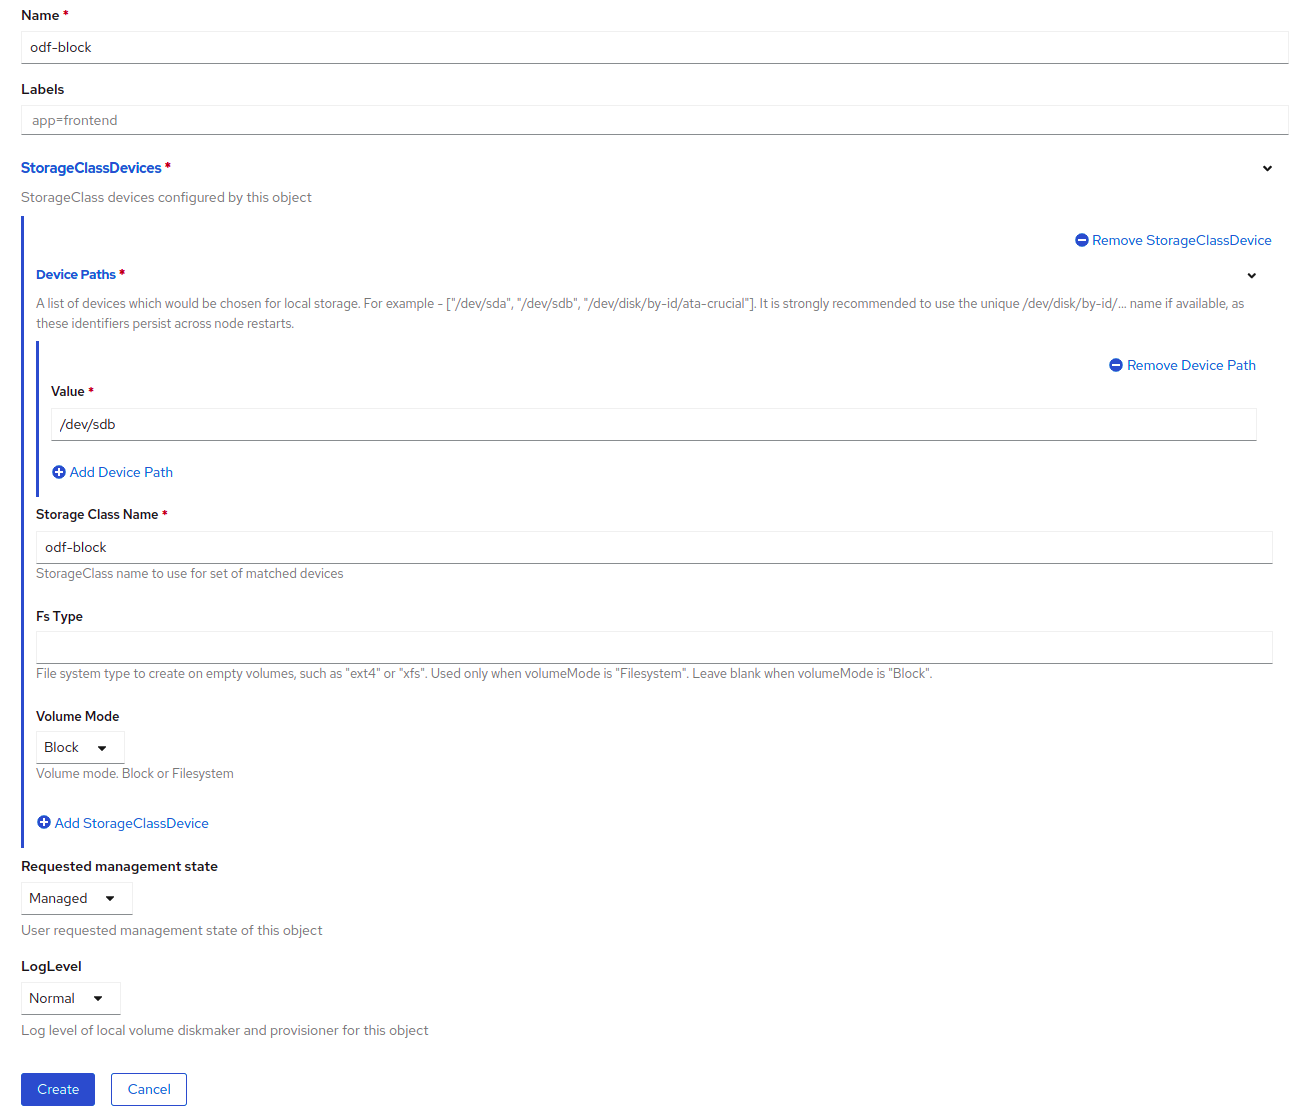
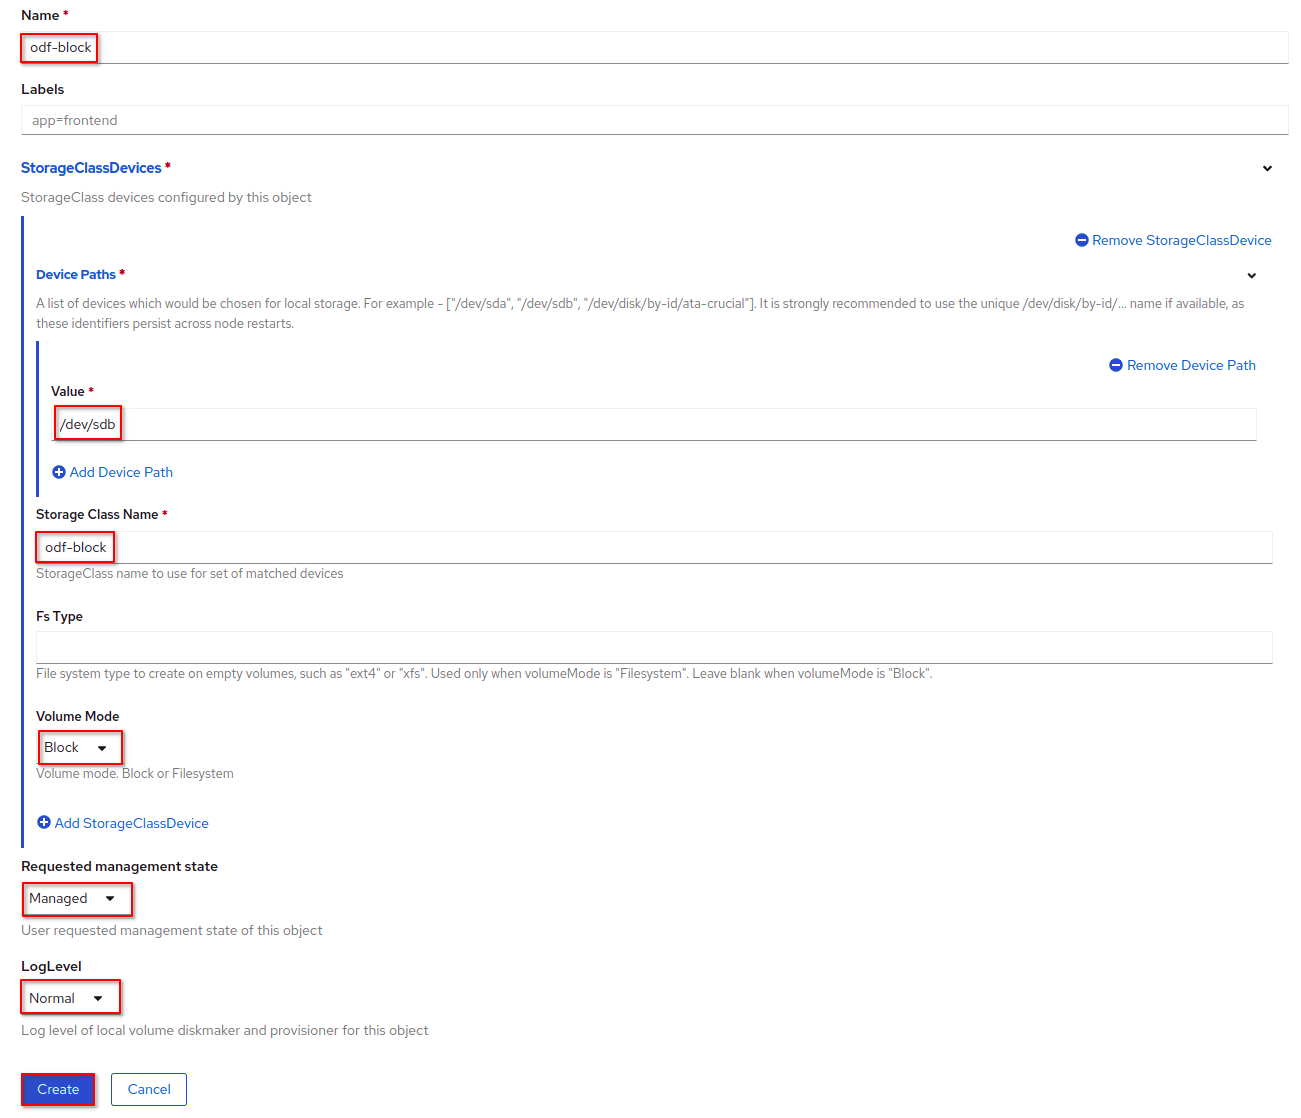
lso and odf quick start clean up

diff --git a/source/_static/css/custom.css b/source/_static/css/custom.css
@@ -1,11 +1,32 @@
-#h1 {
-#  background-color: green;
+img {
+  margin-bottom: 24px;
+}
+
+#table {
+#  margin-bottom: 24px;
 #}
 
-#div {
-#  background-color: white;
-#}
+.section ol.loweralpha > li { 
+  list-style: lower-alpha;
+  padding-bottom: 5px;
+}
 
-#body {
-#  background-color: yellow;
-#}
+.section ol.upperalpha > li { 
+  list-style: upper-alpha;
+  padding-bottom: 5px;
+}
+
+.section ol.arabic > li {
+  list-style: decimal;
+  padding-bottom: 5px;
+}
+
+.section ol.lowerroman > li {
+  list-style: lower-roman;
+  padding-bottom: 5px;
+}
+
+.section ol.upperroman > li {
+  list-style: upper-roman;
+  padding-bottom: 5px;
+}

diff --git a/source/ocp/lso-odf-quick-start.rst b/source/ocp/lso-odf-quick-start.rst
@@ -1,0 +1,83 @@
+LSO & ODF Quick Start
+=====================
+
+This document will describe the installation of the Local Storage Operator
+(LSO) and OpenShift Data Foundations (ODF). LSO is a pre-requisite for
+installing ODF on OpenShift nodes that will use local block devices.
+
+.. warning::
+   We’ve found that hugepages needs to be disabled before installing ODF
+   otherwise noobaa pods won’t start correctly. This can be re-enabled
+   afterwards.
+
+Install and Configure the Local Storage Operator
+------------------------------------------------
+
+1. From the OCP Web Console go to :menuselection:`Operators --> OperatorHub`
+
+#. In the Filter by keyword box type, "local storage"
+#. Select "Local Storage" operator
+
+   .. image:: images/operatorhublocalstorage.png
+
+#. Click "Install"
+#. By default, the "openshift-local-storage" namespace will be used. Accept
+   the defaults and click "Install"
+#. After install completes click "View Operator"
+#. Select the "Local Volume Discovery" tab
+#. Click "Create Local Volume Discover"
+#. Under "Node Selector" select the option based on your environment
+#. Click "Create"
+#. After this completes go to :menuselection:`Home --> API Explorer`
+#. In the search box search for "LocalVolumeDiscoveryResult" and click on
+   the discovered object "LocalVolumeDiscoveryResult"
+#. Select the "Instances" tab
+
+   .. image:: images/localvolumediscoveryresult.png
+
+#. Click the first instance name, click the YAML tab, and scroll to the bottom
+   of the output. The last device, in this labs case "/dev/vdb" should be the 
+   correct device. Make note of the "deviceID". Also note this device should
+   show as "Available".
+
+   .. important:: Using the "deviceID" will prevent future issues from happening
+      if for some reason the order of the drives change.
+
+#. Repeat step 14 for each discovered instance
+#. Go to :menuselection:`Operators --> Installed Operators` and select "Local Storage" operator
+#. Select the "Local Volume" tab and click "Create Local Volume"
+#. Name the new volume, example "odf-block"
+#. Expand "StorageClassDevice" by clicking the carrot to the right of the section
+#. Expand "Device Paths" again by clicking the carrot to the right of the section
+#. Add all the deviceID's recording in step 14
+#. Name the Storage Class Name, example "odf-block"
+#. Set "Fs Type" = \<blank\>
+#. Set "Volume Mode" = Block
+#. Set "Requested management state" = Managed
+#. Set "LogLevel" = Normal
+#. Click Create
+
+   .. image:: images/createlocalvolume.png
+
+Install and Configure OpenShift Data Foundation (ODF)
+-----------------------------------------------------
+
+1. From the OCP Web Console go to :menuselection:`Operators --> OperatorHub`
+#. In the Filter by keyword box type, "ODF"
+#. Select "OpenShift Data Foundation" operator
+#. Click "Install"
+#. Accept the defaults and click "Install"
+#. After install completes go to :menuselection:`Operators --> Installed Operators`
+#. Select "OpenShift Data Foundation"
+#. Click "Create StorageSystem"
+#. Select "Use an existing StorageClass"
+#. Under StorageClass dropdown select "odf-block"
+
+   .. note:: Your name may be different
+
+#. Click Next
+#. You should see the total "Available raw capacity" of your selected nodes
+#. Click Next
+#. Leave defaults and click Next
+#. Review the information; if acceptable click "Create StorageSystem"
+
